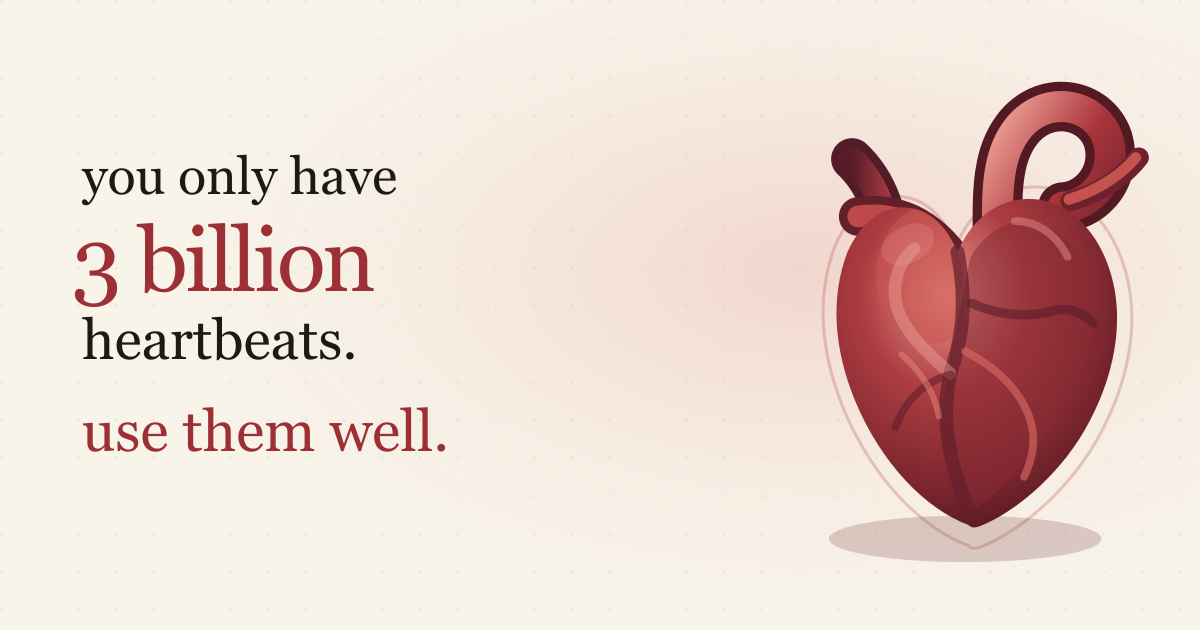
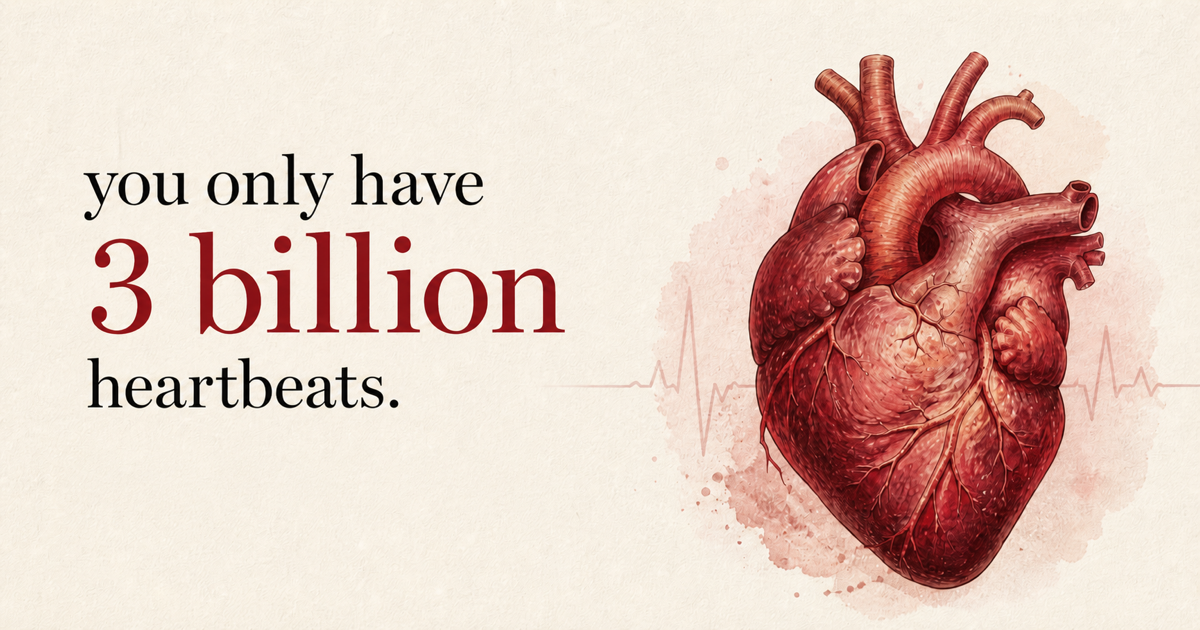
Update social media preview

Changed region(s): [[0.5242, 0.0603, 1.0, 0.9952], [0.0617, 0.2413, 0.4625, 0.7238]]

diff --git a/implementation-notes/2026-08-05-social-preview-promotion.html b/implementation-notes/2026-08-05-social-preview-promotion.html
@@ -1,0 +1,81 @@
+<!doctype html>
+<html lang="en">
+<head>
+<meta charset="utf-8">
+<title>Social Preview Promotion</title>
+<meta name="task" content="Promote the approved generated share card and remove its closing line.">
+<meta name="date-started" content="2026-08-05">
+<meta name="date-updated" content="2026-08-05">
+<meta name="status" content="shipped">
+<meta name="blast-radius" content="low">
+<meta name="tags" content="heartbeats, social-preview, open-graph, imagegen">
+<meta name="related" content="2026-08-04-social-preview-generated-draft.html">
+<style>
+  body { font: 14px/1.45 -apple-system, system-ui, sans-serif; max-width: 880px; margin: 1.5rem auto; padding: 0 1rem; color: #111; }
+  h1 { font-size: 20px; margin: 0 0 .25rem; }
+  h2 { font-size: 15px; margin: 1.4rem 0 .4rem; border-bottom: 1px solid #ddd; padding-bottom: .2rem; }
+  table { border-collapse: collapse; width: 100%; margin: .4rem 0 .8rem; }
+  th, td { border: 1px solid #ddd; padding: 4px 8px; text-align: left; vertical-align: top; }
+  th { background: #f6f6f6; font-weight: 600; }
+  code { font-family: ui-monospace, Menlo, monospace; background: #f1f1f1; padding: 1px 4px; border-radius: 3px; font-size: 12.5px; }
+  ul, ol { margin: .3rem 0 .8rem 1.2rem; padding: 0; }
+  li { margin: .15rem 0; }
+  .blast-low, .status-shipped { color: #2a7a2a; }
+  .meta { color: #555; font-size: 12.5px; margin-bottom: .8rem; }
+  .kv { display: grid; grid-template-columns: 140px 1fr; gap: 2px 14px; font-size: 13px; margin: .4rem 0 1rem; }
+  .kv b { color: #444; font-weight: 600; }
+</style>
+</head>
+<body>
+<h1>Social Preview Promotion</h1>
+<p class="meta"><code>heartbeats</code> · worktree <code>/Users/anishthite/conductor/workspaces/heartbeats/madrid</code> · 2026-08-05 · status <b class="status-shipped">shipped</b> · blast <span class="blast-low">low</span></p>
+
+<h2>Summary</h2>
+<div class="kv">
+  <b>Goal</b><div>Publish the approved generated image without the closing line.</div>
+  <b>Source</b><div>User approval and copy direction.</div>
+  <b>Surface</b><div><code>social-preview.png</code>, <code>social-preview.svg</code>, and image alt text.</div>
+  <b>Format</b><div><code>1200 × 630</code> Open Graph PNG.</div>
+  <b>Open Qs</b><div>0.</div>
+</div>
+
+<h2>UI layout</h2>
+<ol>
+  <li>Retain the left-side three-line text stack and right-side anatomical heart.</li>
+  <li>Restore the former closing-line area as plain textured paper.</li>
+</ol>
+
+<h2>Files</h2>
+<table>
+  <tr><th>Path</th><th>Kind</th><th>Delta</th></tr>
+  <tr><td><code>social-preview.png</code></td><td>touch</td><td>Publish the generated card with the closing line removed.</td></tr>
+  <tr><td><code>social-preview.svg</code></td><td>touch</td><td>Remove the closing line from the editable fallback artwork.</td></tr>
+  <tr><td><code>index.html</code></td><td>touch</td><td>Synchronize Open Graph and Twitter copy and image alt text with the image.</td></tr>
+  <tr><td><code>implementation-notes/2026-08-05-social-preview-promotion.html</code></td><td>new</td><td>Record the approved asset promotion.</td></tr>
+  <tr><td><code>implementation-notes/INDEX.html</code></td><td>touch</td><td>Add the promotion row and mark the draft as shipped.</td></tr>
+</table>
+
+<h2>Decisions</h2>
+<table>
+  <tr><th>ID</th><th>Choice · Rationale</th></tr>
+  <tr><td>D-001</td><td>Use the approved card as <code>social-preview.png</code>. Existing Open Graph and Twitter metadata already reference that path.</td></tr>
+  <tr><td>D-002</td><td>Remove “use them well.” from the image and share metadata. User requested the shorter visual statement.</td></tr>
+</table>
+
+<h2>Tradeoffs</h2>
+<table>
+  <tr><th>ID</th><th>Picked over Rejected</th><th>Reason</th></tr>
+  <tr><td>T-001</td><td>Keep the legacy SVG fallback · Recreate the generated illustration as vector paths.</td><td>The live card is the PNG referenced by metadata; vector reconstruction would not preserve the approved artwork.</td></tr>
+</table>
+
+<h2>Reversibility</h2>
+<p>R-001 · <span class="blast-low">low</span>. Revert this commit to restore the prior share image, SVG wording, and image descriptions.</p>
+
+<h2>Definition of done</h2>
+<ul>
+  <li><code>social-preview.png</code> is <code>1200 × 630</code> and has no closing line.</li>
+  <li>Open Graph and Twitter copy and image descriptions match the published card.</li>
+  <li>The approval draft is recorded as shipped.</li>
+</ul>
+</body>
+</html>

diff --git a/implementation-notes/2026-08-04-social-preview-generated-draft.html b/implementation-notes/2026-08-04-social-preview-generated-draft.html
@@ -5,8 +5,8 @@
 <title>Generated Social Preview Draft</title>
 <meta name="task" content="Generate a richer social-preview draft for approval without replacing the live asset.">
 <meta name="date-started" content="2026-08-04">
-<meta name="date-updated" content="2026-08-04">
-<meta name="status" content="ready-for-review">
+<meta name="date-updated" content="2026-08-05">
+<meta name="status" content="shipped">
 <meta name="blast-radius" content="low">
 <meta name="tags" content="heartbeats, social-preview, imagegen, draft, open-graph">
 <meta name="related" content="2026-08-04-social-media-preview.html, 2026-08-04-social-preview-composition.html">
@@ -20,7 +20,7 @@
   code { font-family: ui-monospace, Menlo, monospace; background: #f1f1f1; padding: 1px 4px; border-radius: 3px; font-size: 12.5px; }
   ul { margin: .3rem 0 .8rem 1.2rem; padding: 0; }
   li { margin: .15rem 0; }
-  .blast-low, .status-ready { color: #2a7a2a; }
+  .blast-low, .status-shipped { color: #2a7a2a; }
   .meta, .q { color: #555; font-size: 12.5px; margin-bottom: .8rem; }
   .kv { display: grid; grid-template-columns: 140px 1fr; gap: 2px 14px; font-size: 13px; margin: .4rem 0 1rem; }
   .kv b { color: #444; font-weight: 600; }
@@ -28,7 +28,7 @@
 </head>
 <body>
 <h1>Generated Social Preview Draft</h1>
-<p class="meta"><code>heartbeats</code> · worktree <code>/Users/anishthite/conductor/workspaces/heartbeats/madrid</code> · 2026-08-04 · status <b class="status-ready">ready-for-review</b> · blast <span class="blast-low">low</span></p>
+<p class="meta"><code>heartbeats</code> · worktree <code>/Users/anishthite/conductor/workspaces/heartbeats/madrid</code> · 2026-08-04 · status <b class="status-shipped">shipped</b> · blast <span class="blast-low">low</span></p>
 
 <h2>Summary</h2>
 <div class="kv">
@@ -36,7 +36,7 @@
   <b>Source</b><div>User request.</div>
   <b>Surface</b><div><code>social-preview-draft.png</code>.</div>
   <b>Format</b><div><code>1200 × 630</code> Open Graph PNG.</div>
-  <b>Open Qs</b><div>1: approval to promote the draft.</div>
+  <b>Open Qs</b><div>0.</div>
 </div>
 
 <h2>UI layout</h2>
@@ -66,7 +66,7 @@
 </ul>
 
 <h2>Open questions</h2>
-<div class="q">Q-001 [OPEN] · Promote <code>social-preview-draft.png</code> to <code>social-preview.png</code> only after user approval.</div>
+<div class="q">Q-001 [RESOLVED 2026-08-05] · User approved promotion; the follow-up removes the closing line before publishing.</div>
 
 <h2>Reversibility</h2>
 <p>R-001 · <span class="blast-low">low</span>. Delete <code>social-preview-draft.png</code> and its index row; the active preview remains untouched.</p>

diff --git a/index.html b/index.html
@@ -7,18 +7,18 @@
 <title>You only have 3 billion heartbeats. Use them well.</title>
 <meta name="description" content="You only have 3 billion heartbeats. Use them well.">
 <meta property="og:type" content="website">
-<meta property="og:title" content="You only have 3 billion heartbeats. Use them well.">
-<meta property="og:description" content="You only have 3 billion heartbeats. Use them well.">
+<meta property="og:title" content="You only have 3 billion heartbeats.">
+<meta property="og:description" content="You only have 3 billion heartbeats.">
 <meta property="og:image" content="social-preview.png">
 <meta property="og:image:type" content="image/png">
 <meta property="og:image:width" content="1200">
 <meta property="og:image:height" content="630">
-<meta property="og:image:alt" content="An anatomical heart beside the words: you only have 3 billion heartbeats. use them well.">
+<meta property="og:image:alt" content="An anatomical heart beside the words: you only have 3 billion heartbeats.">
 <meta name="twitter:card" content="summary_large_image">
-<meta name="twitter:title" content="You only have 3 billion heartbeats. Use them well.">
-<meta name="twitter:description" content="You only have 3 billion heartbeats. Use them well.">
+<meta name="twitter:title" content="You only have 3 billion heartbeats.">
+<meta name="twitter:description" content="You only have 3 billion heartbeats.">
 <meta name="twitter:image" content="social-preview.png">
-<meta name="twitter:image:alt" content="An anatomical heart beside the words: you only have 3 billion heartbeats. use them well.">
+<meta name="twitter:image:alt" content="An anatomical heart beside the words: you only have 3 billion heartbeats.">
 <style>
   :root {
     --paper: #f8f4ea;

diff --git a/implementation-notes/INDEX.html b/implementation-notes/INDEX.html
@@ -23,6 +23,14 @@
   <tbody>
     <tr>
       <td>2026-08-05</td>
+      <td><a href="2026-08-05-social-preview-promotion.html">Social Preview Promotion</a></td>
+      <td class="status-shipped">shipped</td>
+      <td class="blast-low">low</td>
+      <td>heartbeats, social-preview, open-graph, imagegen</td>
+      <td>Publish the approved generated card without its closing line.</td>
+    </tr>
+    <tr>
+      <td>2026-08-05</td>
       <td><a href="2026-08-05-mobile-spacing-rhythm.html">Mobile Spacing Rhythm</a></td>
       <td class="status-ready">ready-for-review</td>
       <td class="blast-low">low</td>
@@ -40,7 +48,7 @@
     <tr>
       <td>2026-08-04</td>
       <td><a href="2026-08-04-social-preview-generated-draft.html">Generated Social Preview Draft</a></td>
-      <td class="status-ready">ready-for-review</td>
+      <td class="status-shipped">shipped</td>
       <td class="blast-low">low</td>
       <td>heartbeats, social-preview, imagegen, draft, open-graph</td>
       <td>Generate a richer share-card draft for approval without replacing the live asset.</td>
